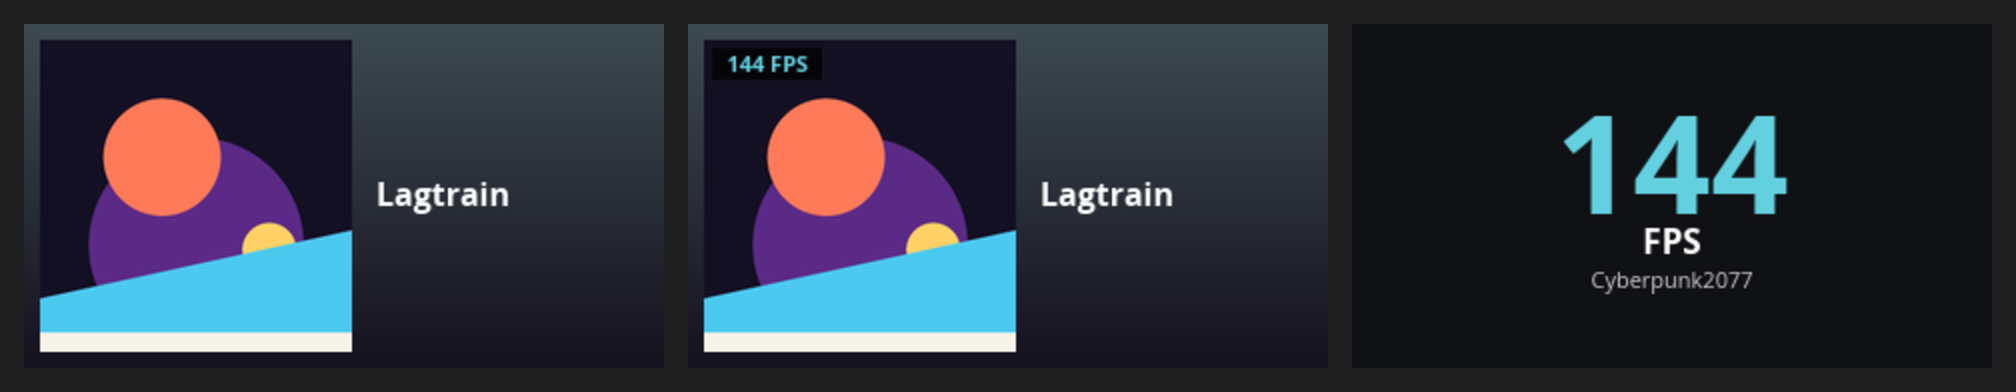
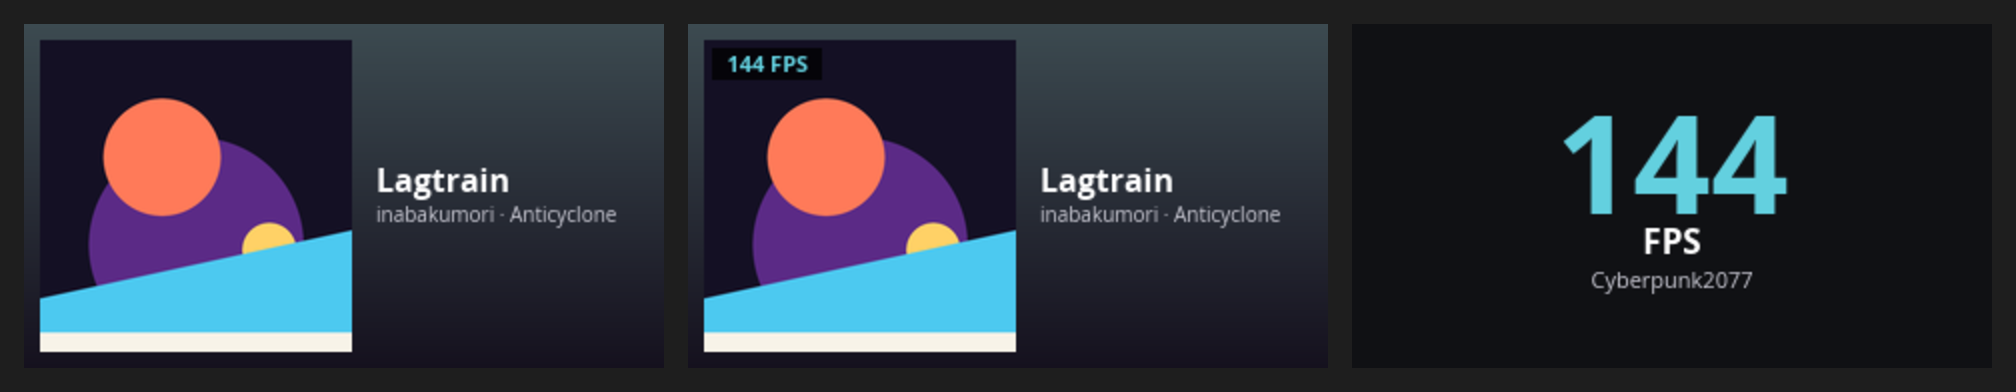
Show the artist and album under the live card's song name
The redesigned card only had the title, which left the lower half of the
text column empty on the RT85 and no way to tell, say, two versions of the
same song apart. Read xesam:album as well and draw "artist · album" in a
smaller dimmer line under the title, dropping whichever part the player
does not provide. The track key stays (title, artist), so pausing still
does not trigger an upload.

The layout now sizes the text block first, so the cover shrinks correctly
on the RT100's squarer screen. Checked on a real RT85 (gen2, model ID
2895) by the maintainer; the sample cards and the screenshot were
regenerated.

Changed region(s): [[0.5, 0.4286, 0.6562, 0.5816], [0.1875, 0.4286, 0.3125, 0.5816]]

diff --git a/crates/rt85-gui/src/live/card.rs b/crates/rt85-gui/src/live/card.rs
@@ -1,6 +1,6 @@
-//! Draws the "live" screen image: now-playing card (cover art and song name on
-//! a background taken from the cover) and/or game FPS, at the keyboard
-//! screen's resolution.
+//! Draws the "live" screen image: now-playing card (cover art, song name and a
+//! smaller artist/album line on a background taken from the cover) and/or game
+//! FPS, at the keyboard screen's resolution.
 
 use super::{colors, fps::Reading, mpris::NowPlaying};
 use cosmic_text::{Align, Attrs, Buffer, Color, Ellipsize, EllipsizeHeightLimit, Family, FontSystem, Metrics, Shaping, SwashCache, Weight, Wrap};
@@ -48,15 +48,20 @@ pub fn render(w: u32, h: u32, media: Option<&NowPlaying>, fps: Option<&Reading>,
             let scheme = art.as_ref().map_or(colors::FALLBACK, |a| a.scheme);
             gradient(&mut img, scheme.top, scheme.bottom);
 
-            // Cover art plus title: stacked on squarish screens (RT100), side
-            // by side on wide ones (RT85, 320x172).
+            // Cover art plus title and a smaller artist/album line: stacked on
+            // squarish screens (RT100), side by side on wide ones (RT85,
+            // 320x172).
             let wide = w as f32 > h as f32 * 1.3;
+            let px = if wide { u(15.0) } else { u(13.0) };
+            let spx = if wide { u(9.0) } else { u(8.0) };
+            let sub = subtitle(m);
+            let gap = u(2.0);
+            let block = px * 1.2 + if sub.is_some() { gap + spx * 1.2 } else { 0.0 };
             let (x0, y0, side) = if wide {
                 let side = (h as f32 - pad * 2.0).max(0.0) as u32;
                 (pad as u32, pad as u32, side)
             } else {
-                let text_h = u(30.0);
-                let side = ((h as f32 - text_h - pad * 2.0).min(w as f32 - pad * 2.0)).max(0.0) as u32;
+                let side = ((h as f32 - block - pad * 2.0).min(w as f32 - pad * 2.0)).max(0.0) as u32;
                 ((w - side) / 2, pad as u32, side)
             };
             match &art {
@@ -73,17 +78,18 @@ pub fn render(w: u32, h: u32, media: Option<&NowPlaying>, fps: Option<&Reading>,
                 fps_badge(fs, cache, &mut img, f, x0 as f32 + u(4.0), y0 as f32 + u(4.0), u(1.0), accent);
             }
 
-            // Song name only: the artist, play state and progress stay off the
-            // card, so the artwork and its colours carry the design.
-            if wide {
+            // Song name, then the artist and album in a smaller, dimmer line.
+            // Play state and progress stay off the card, so the artwork and its
+            // colours carry the design.
+            let (tx, ty, tw, align) = if wide {
                 let tx = (x0 + side) as f32 + pad * 1.5;
-                let px = u(15.0);
-                let y = (h as f32 - px * 1.2) / 2.0;
-                text(fs, cache, &mut img, &m.title, tx, y, w as f32 - tx - pad, px, true, WHITE, Align::Left);
+                (tx, (h as f32 - block) / 2.0, w as f32 - tx - pad, Align::Left)
             } else {
-                let px = u(13.0);
-                let y = y0 as f32 + side as f32 + u(4.0);
-                text(fs, cache, &mut img, &m.title, pad, y, w as f32 - pad * 2.0, px, true, WHITE, Align::Center);
+                (pad, y0 as f32 + side as f32 + u(4.0), w as f32 - pad * 2.0, Align::Center)
+            };
+            text(fs, cache, &mut img, &m.title, tx, ty, tw, px, true, WHITE, align);
+            if let Some(sub) = sub {
+                text(fs, cache, &mut img, &sub, tx, ty + px * 1.2 + gap, tw, spx, false, DIM, align);
             }
         }
         (None, Some(f)) => {
@@ -109,6 +115,17 @@ fn fps_badge(fs: &mut FontSystem, cache: &mut SwashCache, img: &mut RgbaImage, f
     let (bw, bh) = ((label.len() as f32 * 6.5 + 10.0) * u, 16.0 * u);
     fill(img, x as i32, y as i32, bw as u32, bh as u32, Rgba([0, 0, 0, 190]));
     text(fs, cache, img, &label, x, y + 2.0 * u, bw, 11.0 * u, true, accent, Align::Center);
+}
+
+/// Artist and album for the smaller line under the title; either may be
+/// missing, and the line is dropped when both are.
+fn subtitle(m: &NowPlaying) -> Option<String> {
+    let line = [m.artist.trim(), m.album.trim()]
+        .into_iter()
+        .filter(|s| !s.is_empty())
+        .collect::<Vec<_>>()
+        .join(" · ");
+    (!line.is_empty()).then_some(line)
 }
 
 /// Two-stop vertical gradient over the whole card.
@@ -239,6 +256,7 @@ mod tests {
         let media = NowPlaying {
             title: "Lagtrain".into(),
             artist: "inabakumori".into(),
+            album: "Anticyclone".into(),
             art_url: std::env::var("RT85_CARD_ART").ok(),
             playing: true,
         };
@@ -256,5 +274,21 @@ mod tests {
             render(width.into(), height.into(), m, f, accent).rgba.save(dir.join(format!("{name}.png"))).unwrap();
             render(162, 173, m, f, accent).rgba.save(dir.join(format!("{name}-rt100.png"))).unwrap();
         }
+    }
+
+    #[test]
+    fn subtitle_joins_artist_and_album() {
+        let mut m = NowPlaying {
+            title: "Lagtrain".into(),
+            artist: "inabakumori".into(),
+            album: "Anticyclone".into(),
+            art_url: None,
+            playing: false,
+        };
+        assert_eq!(subtitle(&m).as_deref(), Some("inabakumori · Anticyclone"));
+        m.album.clear();
+        assert_eq!(subtitle(&m).as_deref(), Some("inabakumori"));
+        m.artist = "  ".into();
+        assert_eq!(subtitle(&m), None);
     }
 }

diff --git a/crates/rt85-gui/src/live/mpris.rs b/crates/rt85-gui/src/live/mpris.rs
@@ -8,6 +8,7 @@ use zbus::{Connection, proxy::CacheProperties, zvariant::OwnedValue};
 pub struct NowPlaying {
     pub title: String,
     pub artist: String,
+    pub album: String,
     pub art_url: Option<String>,
     pub playing: bool,
 }
@@ -72,6 +73,7 @@ async fn player(conn: &Connection, name: &str) -> zbus::Result<Option<NowPlaying
     Ok(Some(NowPlaying {
         title,
         artist,
+        album: text("xesam:album").unwrap_or_default(),
         art_url: text("mpris:artUrl"),
         playing: status == "Playing",
     }))

diff --git a/README.md b/README.md
@@ -32,9 +32,9 @@
 | **Settings** | **Device** |
 | ![Settings page: keyboard layout, colour scheme and frosted glass](docs/screenshots/settings.png) | ![Device page: connected RT85, platform, model and capabilities](docs/screenshots/device.png) |
 
-**Live screen:** what the RT85's 320×172 screen shows for now playing, now playing + FPS, and game FPS. The now-playing card is just the album art and song name, on a background taken from the cover's colours.
+**Live screen:** what the RT85's 320×172 screen shows for now playing, now playing + FPS, and game FPS. The now-playing card is the album art, the song name and a smaller artist/album line, on a background taken from the cover's colours.
 
-![Three rendered 320×172 screen images: a now-playing card for Lagtrain by inabakumori with cover art on the left, the song name on the right, and a dark background in the cover's colours; the same with an FPS badge; and a large FPS counter](docs/screenshots/live-screen.png)
+![Three rendered 320×172 screen images: a now-playing card for Lagtrain by inabakumori from Anticyclone, with cover art on the left, the song name above a smaller artist and album line on the right, and a dark background in the cover's colours; the same with an FPS badge; and a large FPS counter](docs/screenshots/live-screen.png)
 
 ## Features
 
@@ -44,7 +44,7 @@
 - **Screen:** upload images and full-screen animated GIFs (fill, fit or stretch); clear the screen on the RT100, or reset the RT85's screen (erases every uploaded picture and brings the clock dashboard back, up to 90 s)
 - **Screen widgets:** sync the clock, switch the RT85's screen language; stream CPU usage and temperature on the RT100
 - **Macros:** key, text and delay steps on any key. A key is remapped to a spare F13–F24 code, and the app types the macro (via `/dev/uinput`) while it is running; the firmware's own macro memory isn't reverse-engineered yet
-- **Live screen:** now-playing media from MPRIS (album art and song name on a background matching the art) and game FPS from MangoHud, drawn onto the screen. Media cards are only re-sent when the song changes
+- **Live screen:** now-playing media from MPRIS (album art, song name and artist/album on a background matching the art) and game FPS from MangoHud, drawn onto the screen. Media cards are only re-sent when the song changes
 - **Layouts:** the RT85's 75% board in US ANSI or UK ISO (asked on first run), with its real key slots; the RT100 board when one is detected. The keyboard is asked which model it is, since several share one USB ID
 - **Desktop integration:** follows the COSMIC theme or the KDE colour scheme, optional frosted glass, window controls on KDE/GNOME
 - **CLI:** everything above, scriptable, plus raw packets for protocol probing (`--layout ansi|iso`)
